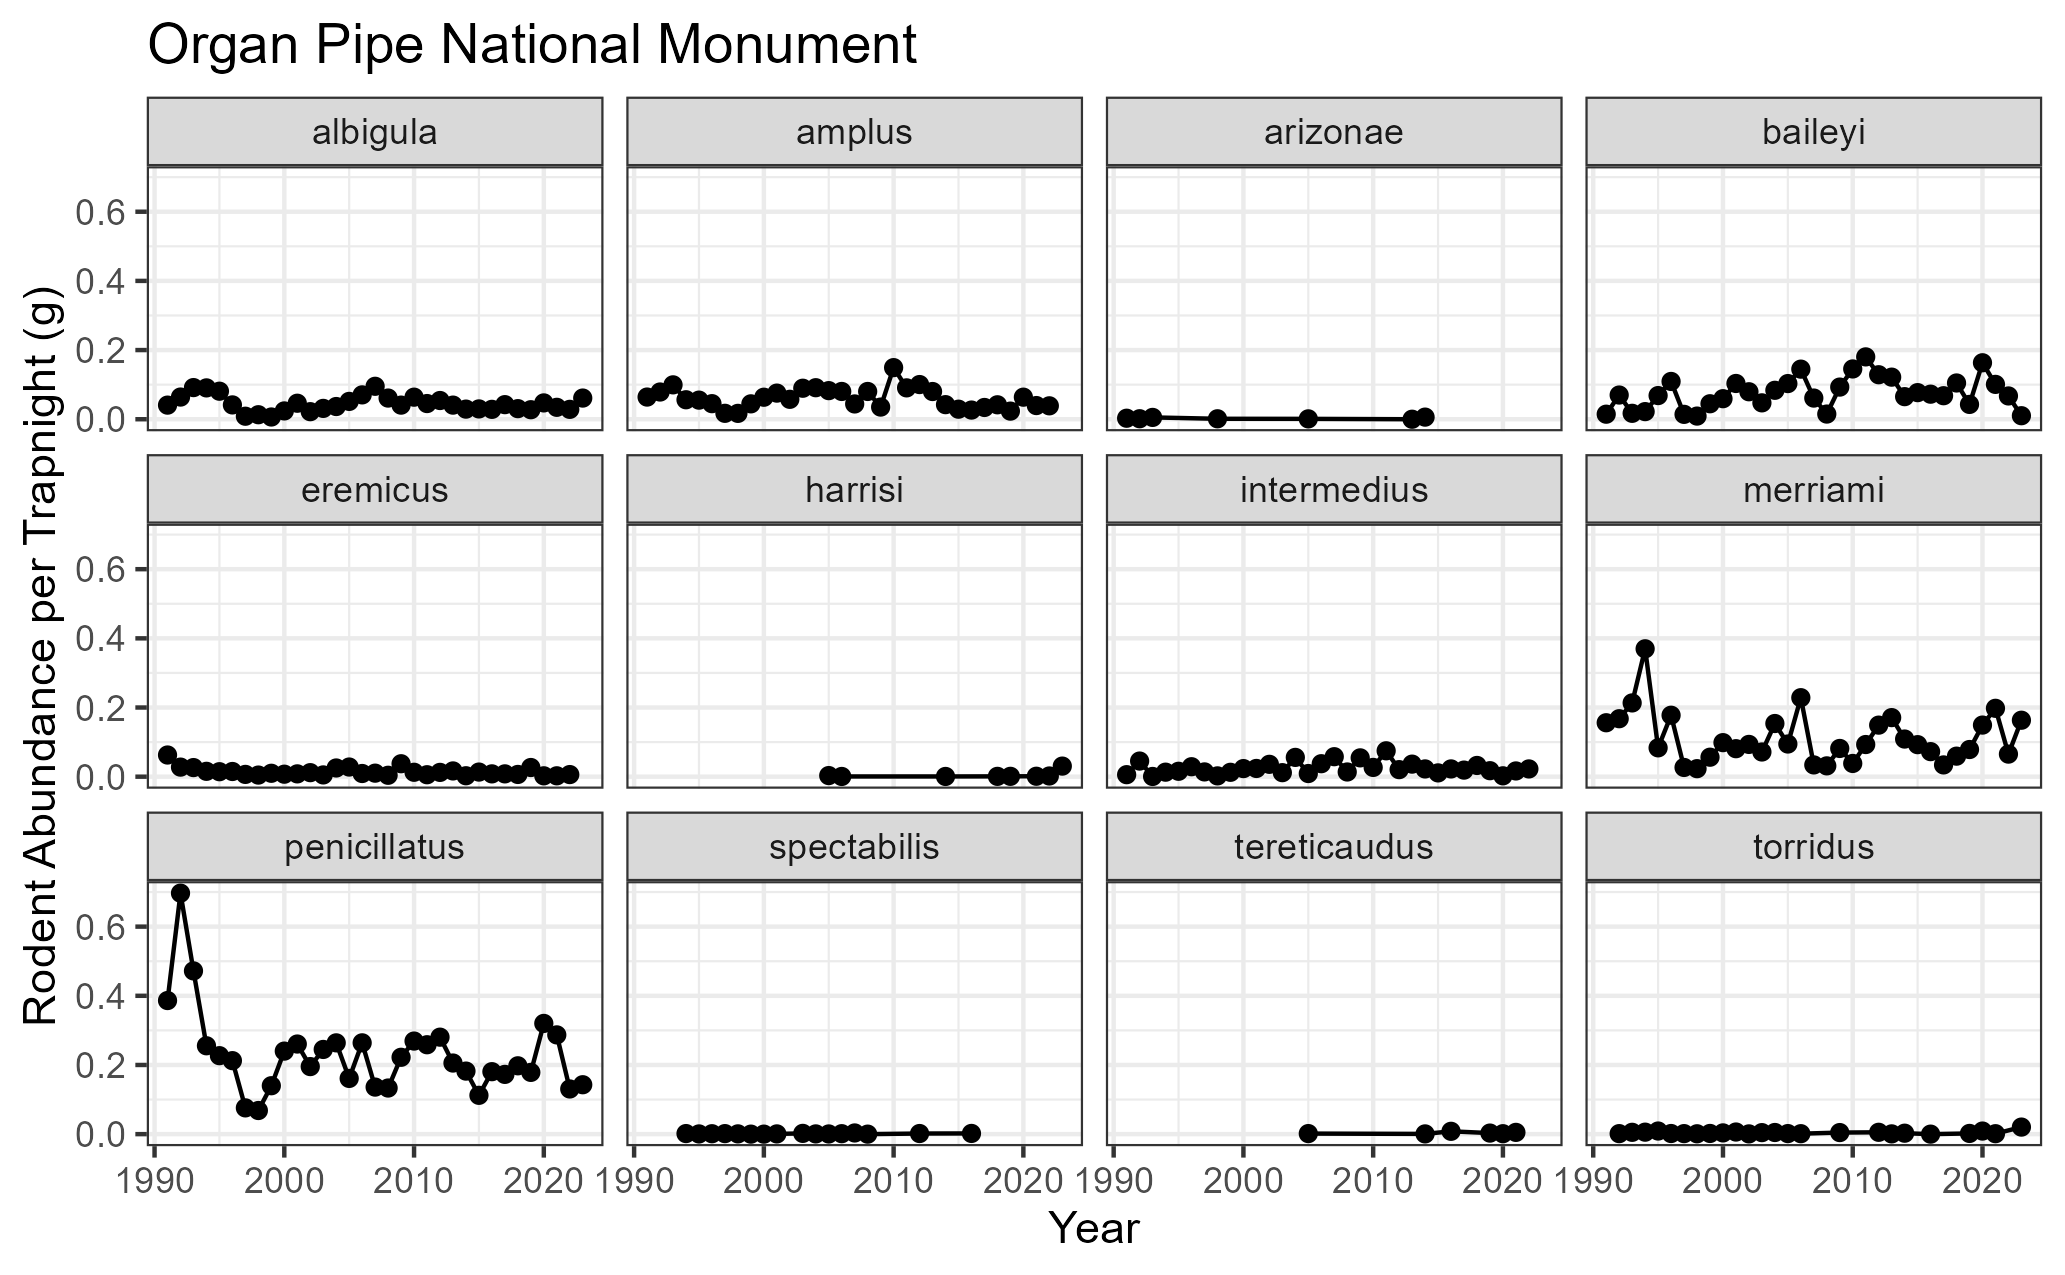
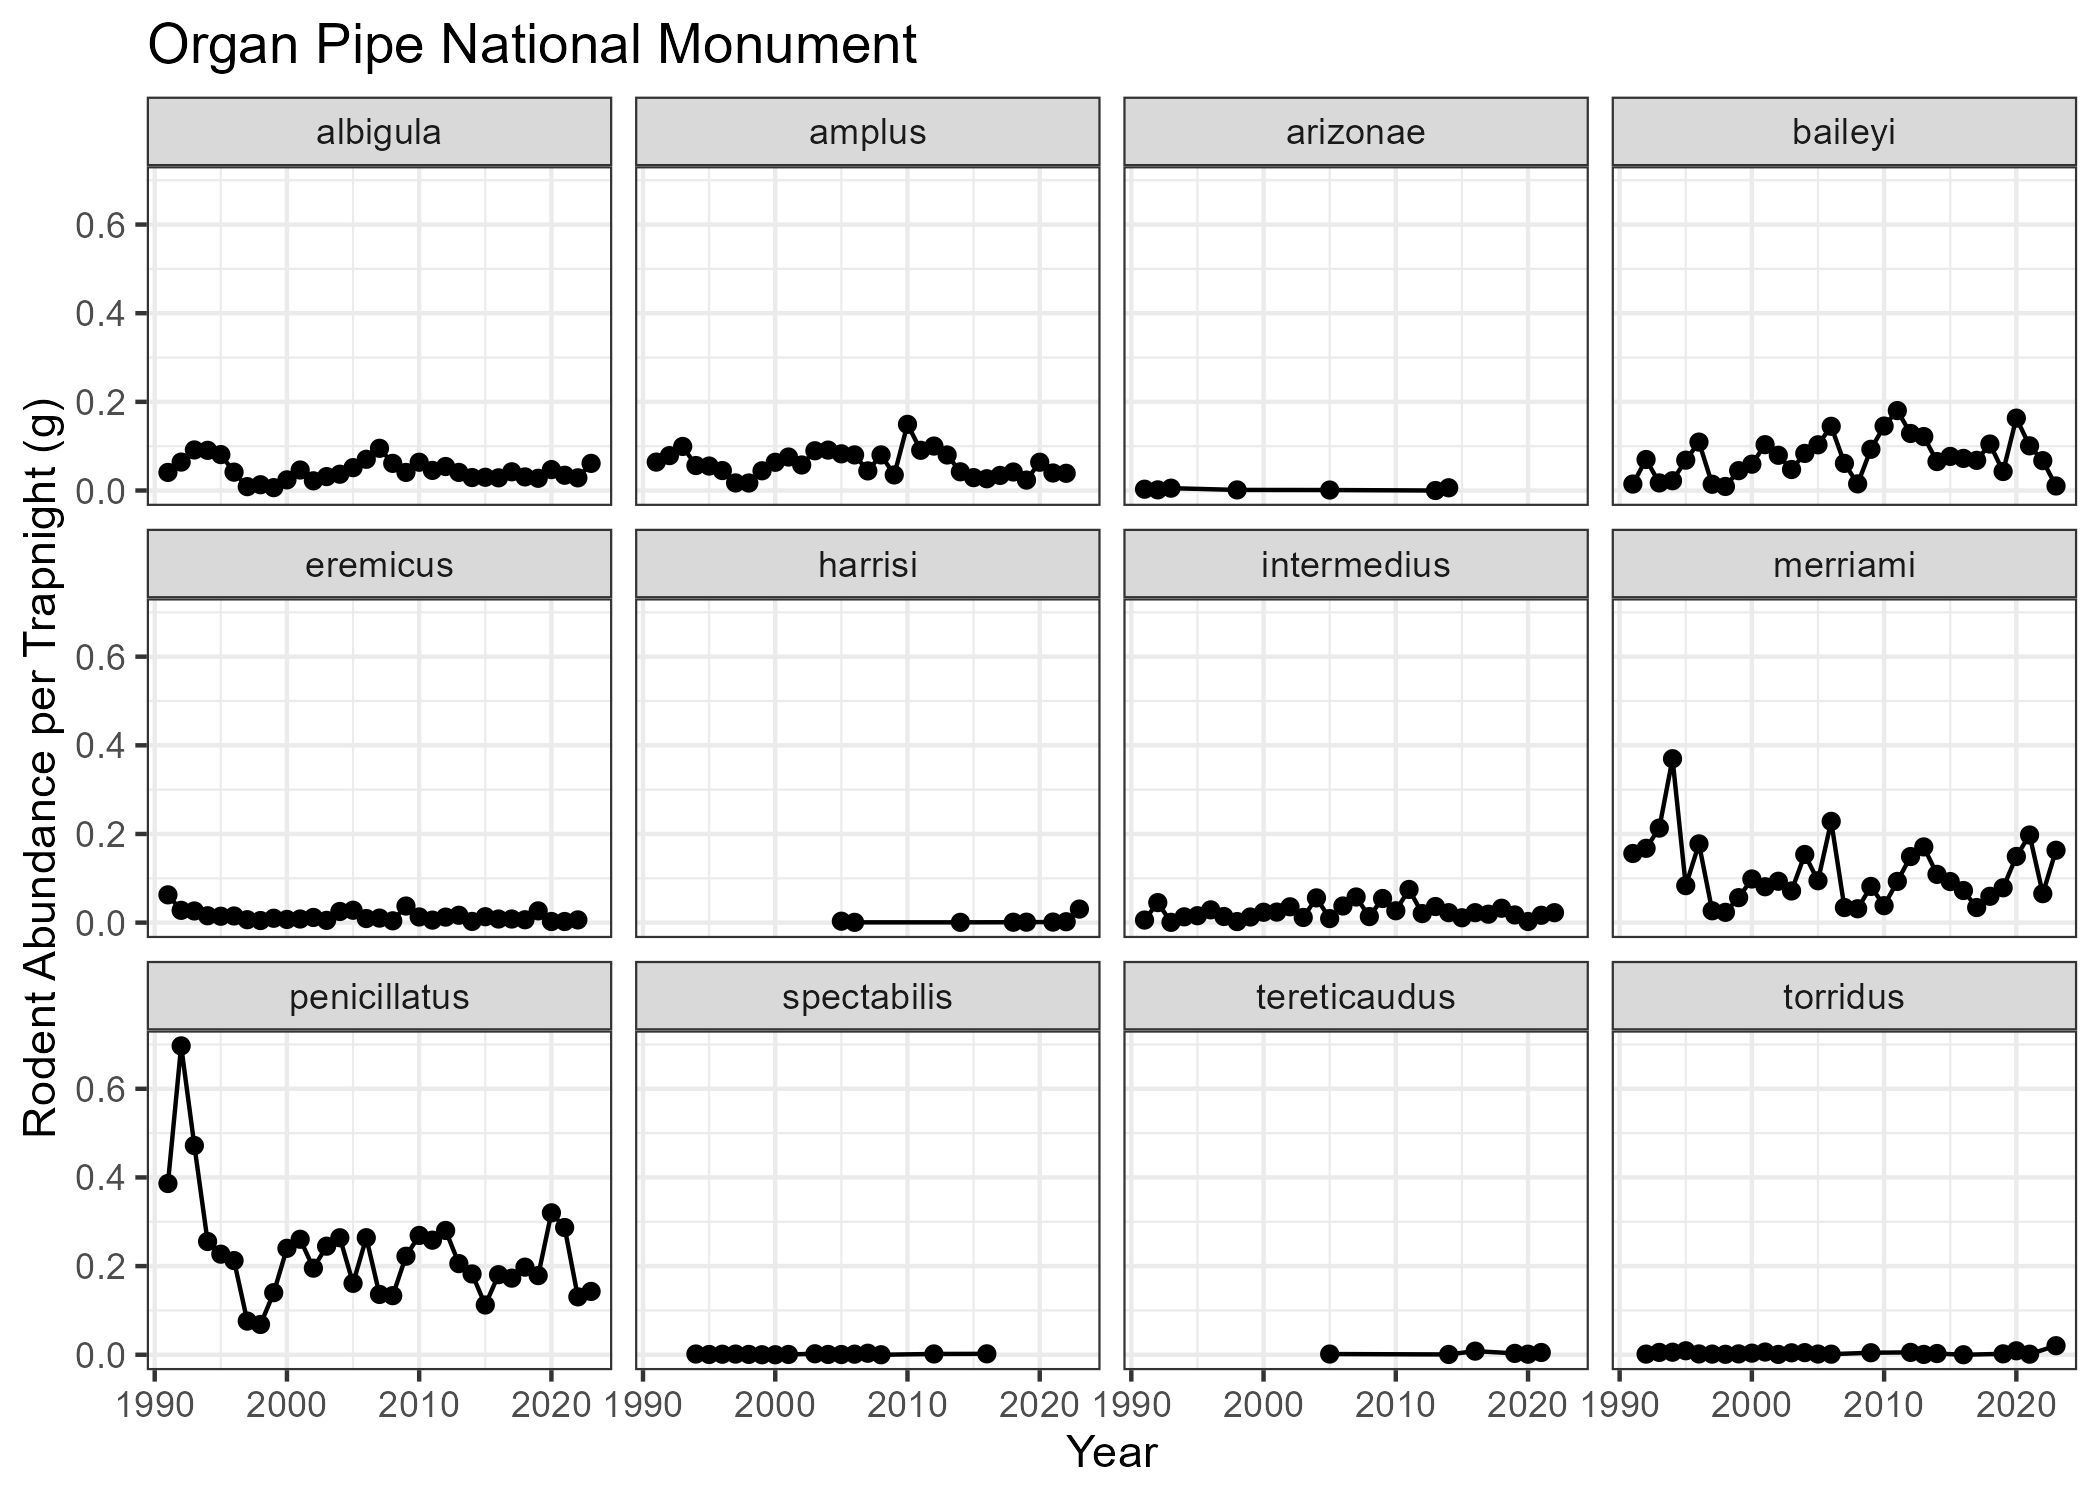
knit orpi_analysis as markdown file

Changed region(s): [[0.0, 0.0, 0.9918, 0.9788]]

diff --git a/code/orpi_analysis.md b/code/orpi_analysis.md
@@ -1,0 +1,277 @@
+orpi_analysis
+================
+Hannah Dempsey
+
+# Organ Pipe National Monument Analysis
+
+Set up:
+
+``` r
+library(tidyverse)
+```
+
+    ## ── Attaching core tidyverse packages ──────────────────────── tidyverse 2.0.0 ──
+    ## ✔ dplyr     1.1.4     ✔ readr     2.1.5
+    ## ✔ forcats   1.0.0     ✔ stringr   1.5.1
+    ## ✔ ggplot2   3.5.1     ✔ tibble    3.2.1
+    ## ✔ lubridate 1.9.4     ✔ tidyr     1.3.1
+    ## ✔ purrr     1.0.4     
+    ## ── Conflicts ────────────────────────────────────────── tidyverse_conflicts() ──
+    ## ✖ dplyr::filter() masks stats::filter()
+    ## ✖ dplyr::lag()    masks stats::lag()
+    ## ℹ Use the conflicted package (<http://conflicted.r-lib.org/>) to force all conflicts to become errors
+
+``` r
+orpi_clean <- read_csv("../data_clean/orpi_clean.csv")
+```
+
+    ## Rows: 29880 Columns: 16
+    ## ── Column specification ────────────────────────────────────────────────────────
+    ## Delimiter: ","
+    ## chr  (6): species_code, genus, species, family, weather, notes
+    ## dbl  (8): id, rodent_survey_id, rodent_species_id, weight, recapture, site_i...
+    ## date (2): start_date, end_date
+    ## 
+    ## ℹ Use `spec()` to retrieve the full column specification for this data.
+    ## ℹ Specify the column types or set `show_col_types = FALSE` to quiet this message.
+
+``` r
+orpi_surveys <- read_csv("../data_clean/orpi_surveys.csv")
+```
+
+    ## Rows: 704 Columns: 8
+    ## ── Column specification ────────────────────────────────────────────────────────
+    ## Delimiter: ","
+    ## chr  (2): weather, notes
+    ## dbl  (4): rodent_survey_id, site_id, quadrat, num_traps
+    ## date (2): start_date, end_date
+    ## 
+    ## ℹ Use `spec()` to retrieve the full column specification for this data.
+    ## ℹ Specify the column types or set `show_col_types = FALSE` to quiet this message.
+
+### Abundance Data
+
+Summarize the survey data by year:
+
+``` r
+trap_nights <- orpi_surveys %>% 
+  mutate(year = year(end_date),
+         nights = end_date - start_date,
+         trap_nights = num_traps * nights) %>% 
+  group_by(year) %>% 
+  summarize(trap_nights = as.numeric(sum(trap_nights)))
+trap_nights
+```
+
+    ## # A tibble: 33 × 2
+    ##     year trap_nights
+    ##    <dbl>       <dbl>
+    ##  1  1991         686
+    ##  2  1992         686
+    ##  3  1993        1519
+    ##  4  1994        1225
+    ##  5  1995        1666
+    ##  6  1996        1666
+    ##  7  1997        3332
+    ##  8  1998        3835
+    ##  9  1999        3550
+    ## 10  2000        1666
+    ## # ℹ 23 more rows
+
+Calculate the annual abundance for each species per trapnight:
+
+``` r
+rodents_per_trapnight <- orpi_clean %>% 
+  mutate(year = year(end_date)) %>%  
+  group_by(year, species) %>% 
+  summarize(abundance = sum(recapture == 0)) %>% 
+  inner_join(trap_nights, join_by(year)) %>% 
+  mutate(abund_per_trapnight = abundance / trap_nights)
+```
+
+    ## `summarise()` has grouped output by 'year'. You can override using the
+    ## `.groups` argument.
+
+``` r
+rodents_per_trapnight
+```
+
+    ## # A tibble: 290 × 5
+    ## # Groups:   year [33]
+    ##     year species      abundance trap_nights abund_per_trapnight
+    ##    <dbl> <chr>            <int>       <dbl>               <dbl>
+    ##  1  1991 albigula            28         686             0.0408 
+    ##  2  1991 amplus              44         686             0.0641 
+    ##  3  1991 arizonae             2         686             0.00292
+    ##  4  1991 baileyi             10         686             0.0146 
+    ##  5  1991 eremicus            43         686             0.0627 
+    ##  6  1991 intermedius          4         686             0.00583
+    ##  7  1991 merriami           107         686             0.156  
+    ##  8  1991 penicillatus       265         686             0.386  
+    ##  9  1992 albigula            44         686             0.0641 
+    ## 10  1992 amplus              54         686             0.0787 
+    ## # ℹ 280 more rows
+
+``` r
+#save dataframe for comparison
+write_csv(rodents_per_trapnight, "../data_clean/orpi_abund_trapnights.csv")
+```
+
+Plotting abundance per trapnight:
+
+``` r
+#only one data point for maniculatus, so I'm removing it from the graph
+orpi_abundance <- rodents_per_trapnight %>% 
+  filter(species != "maniculatus") %>% 
+  ggplot(., aes(x = year, y = abund_per_trapnight)) +
+  geom_point() +
+  geom_line() +
+  facet_wrap(~ species) +
+  labs(y = "Rodent Abundance per Trapnight (g)", x = "Year", title = "Organ Pipe National Monument") +
+  theme_bw()
+orpi_abundance
+```
+
+![](orpi_analysis_files/figure-gfm/unnamed-chunk-4-1.png)<!-- -->
+
+``` r
+ggsave("../figures/orpi_abundance.png")
+```
+
+    ## Saving 7 x 5 in image
+
+### Biomass Data
+
+Calculating average mass for each species:
+
+``` r
+rodent_mass <- orpi_clean %>% 
+  group_by(species) %>% 
+  summarize(avg_mass_g = mean(weight, na.rm = TRUE))
+rodent_mass
+```
+
+    ## # A tibble: 13 × 2
+    ##    species      avg_mass_g
+    ##    <chr>             <dbl>
+    ##  1 albigula          134. 
+    ##  2 amplus             11.4
+    ##  3 arizonae           87.3
+    ##  4 baileyi            25.1
+    ##  5 eremicus           17.4
+    ##  6 harrisi            65  
+    ##  7 intermedius        12.7
+    ##  8 maniculatus        19  
+    ##  9 merriami           36.1
+    ## 10 penicillatus       15.6
+    ## 11 spectabilis        96.4
+    ## 12 tereticaudus       99.9
+    ## 13 torridus           21.5
+
+Calculate the annual biomass of each species:
+
+``` r
+biomass_annual <- rodents_per_trapnight %>% 
+  inner_join(rodent_mass, join_by(species)) %>% 
+  group_by(year, species) %>% 
+  summarize(biomass_g = abund_per_trapnight * avg_mass_g)
+```
+
+    ## `summarise()` has grouped output by 'year'. You can override using the
+    ## `.groups` argument.
+
+``` r
+biomass_annual
+```
+
+    ## # A tibble: 290 × 3
+    ## # Groups:   year [33]
+    ##     year species      biomass_g
+    ##    <dbl> <chr>            <dbl>
+    ##  1  1991 albigula        5.49  
+    ##  2  1991 amplus          0.728 
+    ##  3  1991 arizonae        0.254 
+    ##  4  1991 baileyi         0.365 
+    ##  5  1991 eremicus        1.09  
+    ##  6  1991 intermedius     0.0743
+    ##  7  1991 merriami        5.62  
+    ##  8  1991 penicillatus    6.01  
+    ##  9  1992 albigula        8.62  
+    ## 10  1992 amplus          0.894 
+    ## # ℹ 280 more rows
+
+``` r
+#save dataframe for comparison
+write_csv(biomass_annual, "../data_clean/orpi_biomass.csv")
+```
+
+Plotting annual biomass of each species:
+
+``` r
+#only one data point for maniculatus, so I'm removing it from the graph
+orpi_biomass <- biomass_annual %>% 
+  filter(species != "maniculatus") %>% 
+  ggplot(., aes(x = year, y = biomass_g)) +
+  geom_point() +
+  geom_line() +
+  facet_wrap(~species) +
+  labs(y = "Biomass (g)", x = "Year", title = "Organ Pipe National Monument") +
+  theme_bw()
+orpi_biomass
+```
+
+![](orpi_analysis_files/figure-gfm/unnamed-chunk-7-1.png)<!-- -->
+
+``` r
+ggsave("../figures/orpi_biomass.png")
+```
+
+    ## Saving 7 x 5 in image
+
+Calculating annual community biomass:
+
+``` r
+total_biomass_annual <- biomass_annual %>% 
+  group_by(year) %>% 
+  summarize(biomass_g = sum(biomass_g))
+total_biomass_annual
+```
+
+    ## # A tibble: 33 × 2
+    ##     year biomass_g
+    ##    <dbl>     <dbl>
+    ##  1  1991     19.6 
+    ##  2  1992     29.4 
+    ##  3  1993     29.9 
+    ##  4  1994     31.4 
+    ##  5  1995     20.5 
+    ##  6  1996     19.3 
+    ##  7  1997      4.33
+    ##  8  1998      4.40
+    ##  9  1999      7.09
+    ## 10  2000     13.2 
+    ## # ℹ 23 more rows
+
+``` r
+#save dataframe for comparison
+write_csv(total_biomass_annual, "../data_clean/orpi_total_biomass.csv")
+```
+
+Plotting annual community biomass:
+
+``` r
+orpi_total_biomass <- ggplot(total_biomass_annual, aes(x = year, y = biomass_g)) +
+  geom_point() +
+  geom_line() +
+  labs(y = "Total Biomass (g)", x = "Year", title = "Organ Pipe National Monument") +
+  theme_bw()
+orpi_total_biomass
+```
+
+![](orpi_analysis_files/figure-gfm/unnamed-chunk-9-1.png)<!-- -->
+
+``` r
+ggsave("../figures/orpi_total_biomass.png")
+```
+
+    ## Saving 7 x 5 in image
